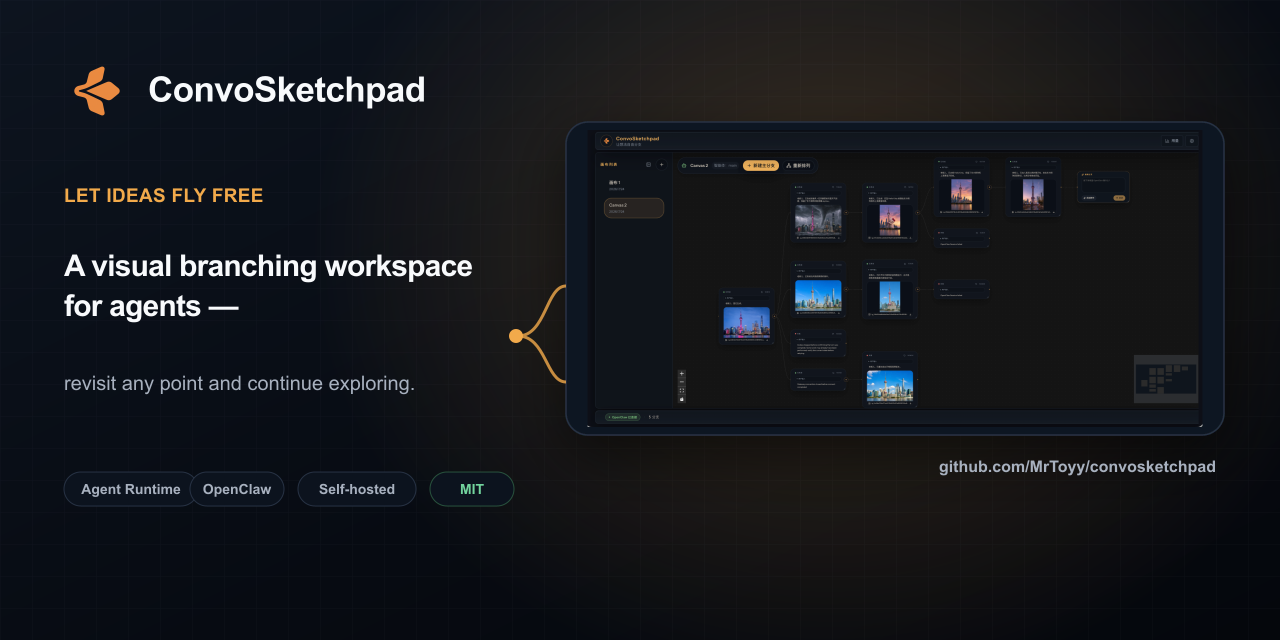
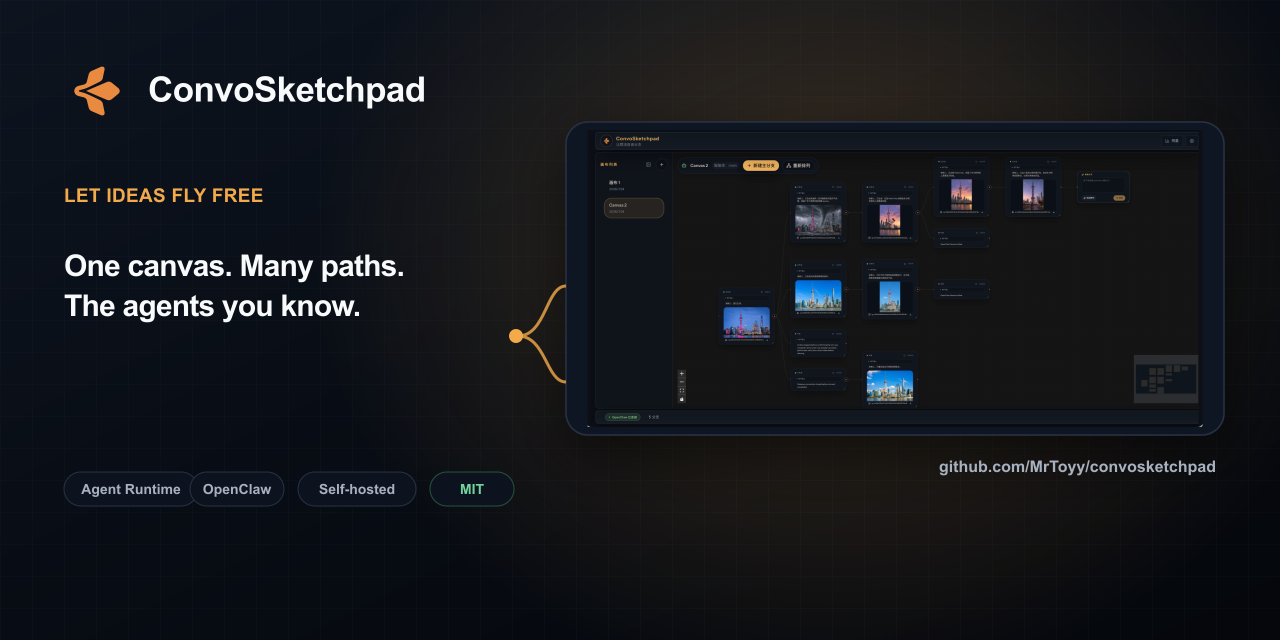
docs: refine project positioning and roadmap

Changed region(s): [[0.0312, 0.375, 0.375, 0.4375], [0.0312, 0.5938, 0.3438, 0.625], [0.0312, 0.4688, 0.2812, 0.5]]

diff --git a/server/lib/config.test.ts b/server/lib/config.test.ts
@@ -18,11 +18,11 @@ describe('Canvas server config', () => {
     const warn = vi.spyOn(console, 'warn').mockImplementation(() => undefined);
     printStartupBanner(
       '1.2.3',
-      'A visual branching workspace for agents — revisit any point and continue exploring.',
+      'Self-hosted visual canvas for branching AI conversations—reuse your existing OpenClaw and Codex agents, skills, memory, and tools.',
     );
     expect(log.mock.calls.flat().join(' ')).toContain('ConvoSketchpad v1.2.3');
     expect(log.mock.calls.flat().join(' ')).toContain(
-      'A visual branching workspace for agents — revisit any point and continue exploring.',
+      'Self-hosted visual canvas for branching AI conversations—reuse your existing OpenClaw and Codex agents, skills, memory, and tools.',
     );
     expect(() => validateConfig()).not.toThrow();
     log.mockRestore();

diff --git a/index.html b/index.html
@@ -3,7 +3,7 @@
   <head>
     <meta charset="UTF-8" />
     <meta name="viewport" content="width=device-width, initial-scale=1.0" />
-    <meta name="description" content="A visual branching workspace for agents — revisit any point and continue exploring." />
+    <meta name="description" content="Self-hosted visual canvas for branching AI conversations—reuse your existing OpenClaw and Codex agents, skills, memory, and tools." />
     <title>ConvoSketchpad — Let ideas fly free</title>
     <link rel="icon" type="image/png" sizes="32x32" href="/favicon-32.png">
     <link rel="apple-touch-icon" sizes="256x256" href="/convosketchpad-apple-touch-icon-256.png">

diff --git a/server/lib/package-metadata.ts b/server/lib/package-metadata.ts
@@ -12,7 +12,7 @@ const fallback: PackageMetadata = {
   name: 'convosketchpad',
   version: '0.0.0',
   description:
-    'A visual branching workspace for agents — revisit any point and continue exploring.',
+    'Self-hosted visual canvas for branching AI conversations—reuse your existing OpenClaw and Codex agents, skills, memory, and tools.',
 };
 
 export function readPackageMetadata(moduleUrl = import.meta.url): PackageMetadata {

diff --git a/scripts/lib/package-metadata.ts b/scripts/lib/package-metadata.ts
@@ -9,7 +9,7 @@ export interface PackageMetadata {
 const fallback: PackageMetadata = {
   version: '0.0.0',
   description:
-    'A visual branching workspace for agents — revisit any point and continue exploring.',
+    'Self-hosted visual canvas for branching AI conversations—reuse your existing OpenClaw and Codex agents, skills, memory, and tools.',
 };
 
 export function readPackageMetadata(): PackageMetadata {

diff --git a/server/lib/package-metadata.test.ts b/server/lib/package-metadata.test.ts
@@ -48,7 +48,7 @@ describe('package metadata', () => {
       name: 'convosketchpad',
       version: '0.0.0',
       description:
-        'A visual branching workspace for agents — revisit any point and continue exploring.',
+        'Self-hosted visual canvas for branching AI conversations—reuse your existing OpenClaw and Codex agents, skills, memory, and tools.',
     });
   });
 });

diff --git a/design/social-preview/README.md b/design/social-preview/README.md
@@ -22,6 +22,6 @@ node design/social-preview/generate.mjs
 - `public/convosketchpad-logo-1024.png`
 - `public/screenshot.png`
 
-所有候选图统一使用“让想法自由分支 / Let ideas fly free”和产品副标题，不再把产品定位为 OpenClaw 专属工作台。文字、Logo、尺寸、颜色和截图均通过 SVG 确定性合成，未使用 AI 重绘产品界面。PNG 文件小于 GitHub Social Preview 的 1 MB 限制。
+所有候选图统一保留“让想法自由分支 / Let ideas fly free”品牌标语，并使用“一张画布，多条思路，熟悉的 Agent / One canvas. Many paths. The agents you know.”这一产品定位。文字、Logo、尺寸、颜色和截图均通过 SVG 确定性合成，未使用 AI 重绘产品界面。PNG 文件小于 GitHub Social Preview 的 1 MB 限制。
 
 主 Social Preview 不放置二维码：预览图通常显示在已经可点击的仓库链接卡片中，二维码会占用小尺寸卡片的有效空间。英文和中文版都保留可抄写的 `github.com/MrToyy/convosketchpad`，用于图片脱离链接后被单独转发或截图的场景；线下物料、演讲页或群聊海报应另做带二维码的分享版本。

diff --git a/CHANGELOG.md b/CHANGELOG.md
@@ -4,6 +4,10 @@ ConvoSketchpad 的重要变更均记录在此文件中。格式遵循 [Keep a Ch
 
 ## [Unreleased]
 
+### 变更
+
+- 产品定位更新为“一张画布，多条思路，熟悉的 Agent / One canvas. Many paths. The agents you know.”，强调 Canvas 上的多路径探索与既有 Agent 的直接复用；README 以分支 AI 对话、OpenClaw/Codex 复用和线性聊天对比重组中英文介绍，并集中呈现当前支持、候选 Agent Runtime 与产品能力路线图；GitHub、网页与 Package 元数据同步使用可搜索的功能描述。“让想法自由分支 / Let ideas fly free”继续作为品牌标语。
+
 ## [0.4.2] - 2026-08-07
 
 ### 发布摘要

diff --git a/docs/README.md b/docs/README.md
@@ -1,6 +1,6 @@
 # 文档
 
-ConvoSketchpad 的目标是“让想法自由分支”。以下文档描述通用 Agent 可视化分支工作台、Agent 运行端集成方式以及运行和维护要求。
+ConvoSketchpad 的目标是“让想法自由分支”。以下文档描述如何在一张 Canvas 中展开多条思路、接入用户熟悉的 Agent Runtime，以及相关运行和维护要求。
 
 ## 智能体开发入口
 
